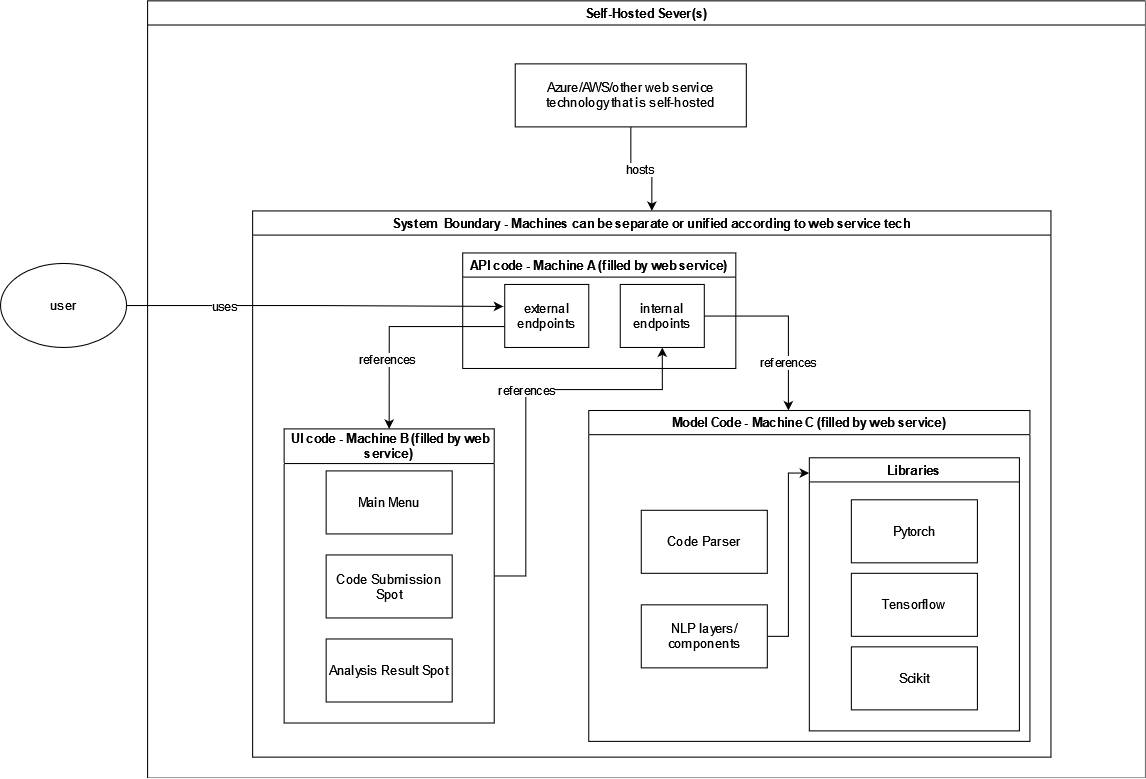
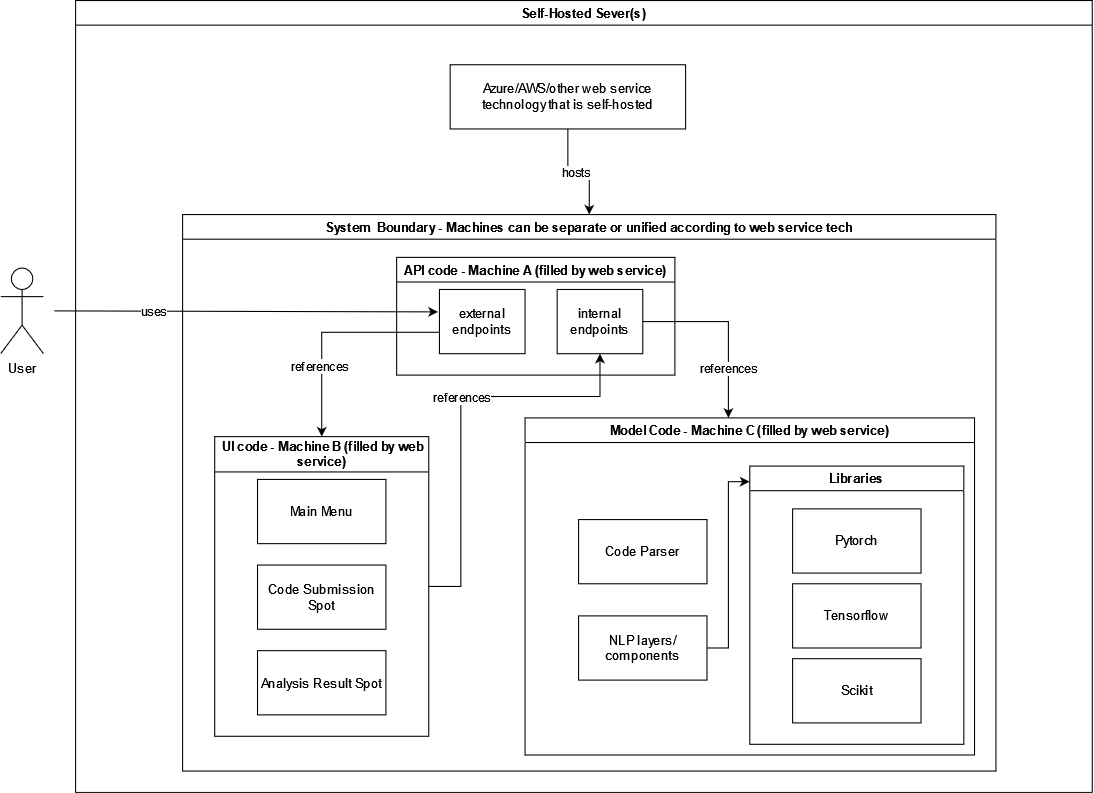
Added definitions and caption along with source file for png

diff --git a/docs/SRS-Volere/SRS.tex b/docs/SRS-Volere/SRS.tex
@@ -1440,9 +1440,9 @@ graduate attribute of Lifelong Learning.  Please answer the following questions:
 
         \item \textbf{Julian Cecchini:} 
         \begin{itemize}
-            \item \textbf{Server Deployment}: Julian will pursue online articles to learn this. He finds maintaining attention for long YouTube videos can be cumbersome and if he's interrupted, it's easier to pick up off online articles than YouTube videos. Also, he doesn't feel he has time to trial server deployment in a side project. He lacks experience in server deployment compared to the rest of the team, so he seeks to close the knowledge gap to be able to contribute and gain experience in this area.
+            \item \textbf{Server Deployment}: Julian will pursue online articles to learn this. He finds maintaining attention for long YouTube videos can be cumbersome and if he's interrupted, it's easier to find where he left off in online articles compared to YouTube videos. Also, he doesn't feel he has time to trial server deployment in as a side project. He lacks experience in server deployment compared to the rest of the team, so he seeks to close the knowledge gap to be able to contribute and gain experience in this area.
 
-            \item \textbf{Proactive Communication}: Julian will schedule meetings for thought direction on given tasks. He feels the commitment imposed by a meeting where he must announce his thoughts will have him try more consistently to announce his direction than a notebook reminder that suggests he should bring some thoughts forward. He feels its essential he masters this while dealing with multiple extracurriculars on top of capstone so he doesn't lose touch with the team.
+            \item \textbf{Proactive Communication}: Julian will schedule meetings for thought direction on given tasks. He feels the commitment imposed by a meeting where he must announce his thoughts will have him try more consistently to announce his mind's direction than a notebook reminder that suggests he should bring some thoughts forward. He feels its essential he masters this while dealing with multiple extracurriculars on top of capstone so he doesn't lose touch with the team.
         \end{itemize}
 
         \item \textbf{Mohammad Mohsin Khan:}

diff --git a/docs/HazardAnalysis/HazardAnalysis.tex b/docs/HazardAnalysis/HazardAnalysis.tex
@@ -73,9 +73,7 @@ hazards.}
 
 \hspace*{-3cm}\includegraphics[height=.58\textheight]{./assets/Component_Border.png}
 
-Diagram shows referential relationships, not workflows. System Boundary
-shows compnents our team will maintain and be responsible for (not including 
-machines that are self-hosted).
+Diagram shows referential relationships, not workflows. System Boundary above surrounds all components our team will maintain and accept responsibility. A machine above is a server suitable to host code specified. Any machine mentioned above will not be provided to users from our project, they are expected to be self-hosted through technology such as Amazon Web Services (AWS) or Microsoft Azure.
 
 \section{Critical Assumptions}
 \begin{itemize}
